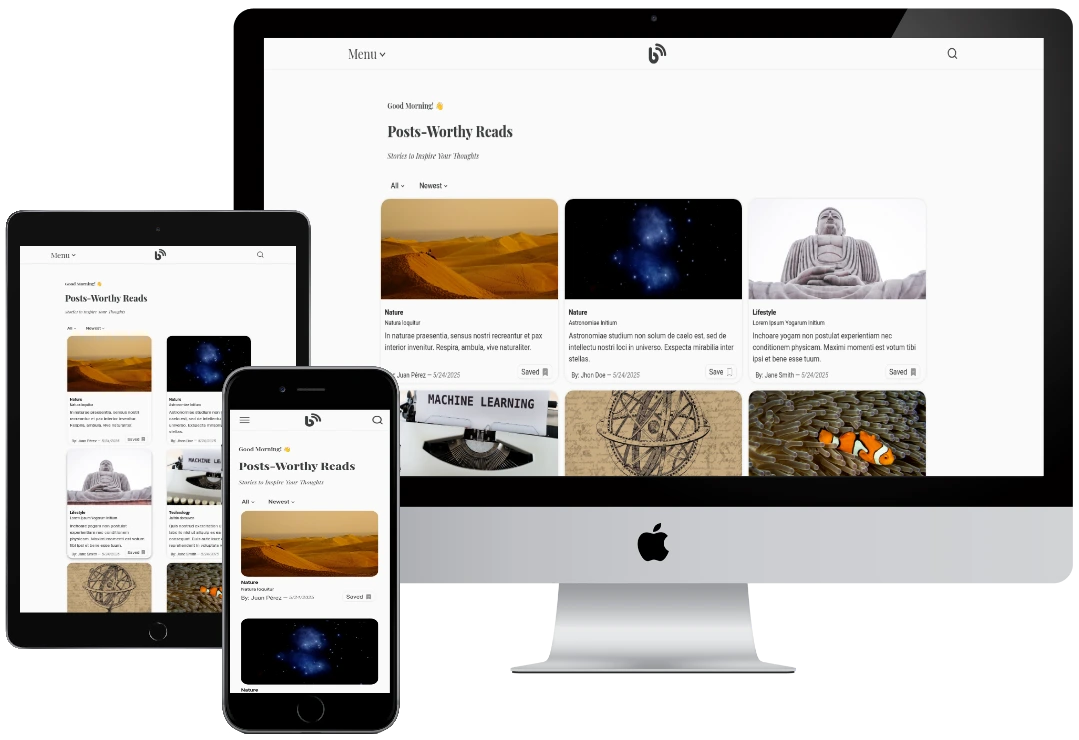
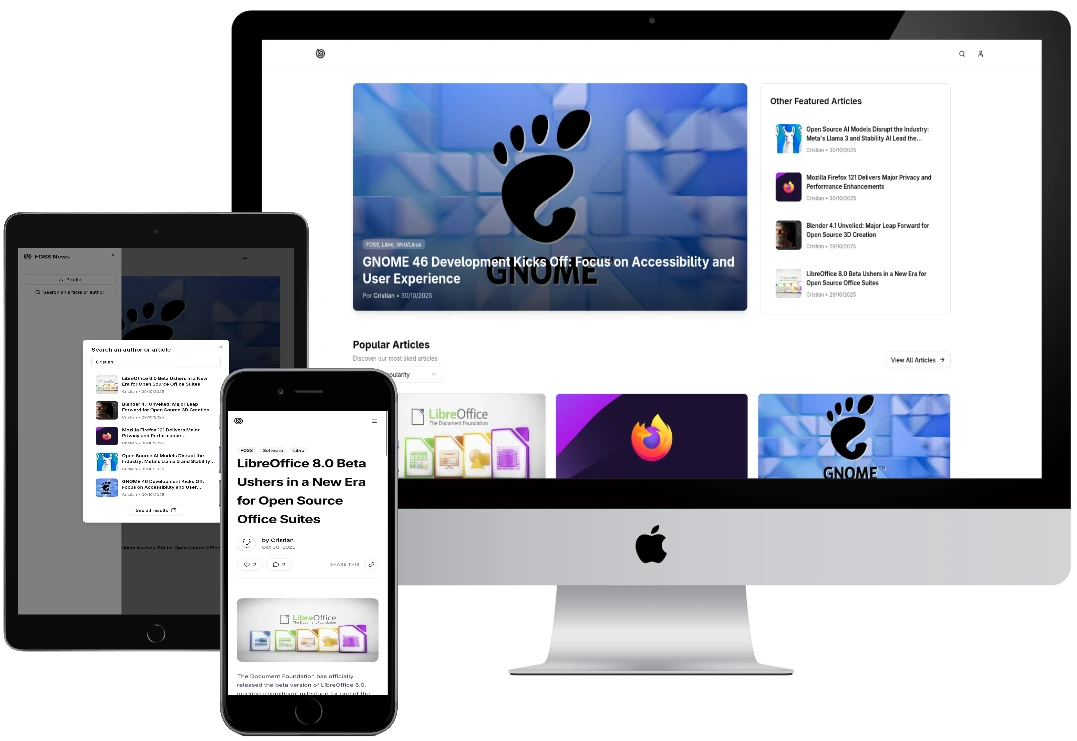
Se cambió un proyecto

diff --git a/index.html b/index.html
@@ -454,11 +454,11 @@
               <img
                 class="projects__image"
                 src="./assets/images/blog-mockup-3devices.webp"
-                alt="Captura de pantalla del proyecto Página de artículos tipo GetPocket en dispositivos varios"
+                alt="Captura de pantalla del proyecto Página de artículos headless en dispositivos varios"
               />
               <div class="projects__description">
                 <h5 id="project1-title" class="projects__title">
-                  Página de artículos tipo GetPocket
+                  Página de artículos headless
                 </h5>
                 <div class="projects__buttons">
                   <button
@@ -487,7 +487,7 @@
                     </svg>
                   </button>
                   <a
-                    href="https://github.com/Acosta-gh/blog_MERN"
+                    href="https://github.com/Acosta-gh/Headless-Articles-Platform-----Node.js-Express-Sequelize-React-Tailwind-JWT-Authentication"
                     class="button button--tertiary"
                     role="link"
                     aria-label="Código fuente en GitHub del proyecto Página de artículos tipo GetPocket"
@@ -515,20 +515,18 @@
                   </a>
                 </div>
                 <p class="projects__paragraph paragraph">
-                  Este proyecto comenzó como un blog sencillo, pero con el
-                  tiempo evolucionó hacia una plataforma de artículos inspirada
-                  en GetPocket. Es un proyecto personal al que le tengo mucho
-                  cariño y que planeo convertir en mi blog principal. Aunque aún
-                  está en desarrollo, ya cuenta con una base sólida y suficiente
-                  funcionalidad para formar parte de mi portafolio.
+                  Este es un sitio web de artículos con arquitectura headless.
+                  Permite crear y administrar artículos en Markdown, subir
+                  imágenes, gestionar usuarios y mucho más. Es ideal como base
+                  para un blog moderno o una plataforma de contenido editorial.
                 </p>
                 <div
                   class="projects__tags"
                   aria-label="Tecnologías utilizadas en este proyecto"
                 >
                   <span class="projects__tag tag2">REACT</span>
-                  <span class="projects__tag tag2">SCSS</span>
-                  <span class="projects__tag tag2">MARIADB</span>
+                  <span class="projects__tag tag2">TAILWIND</span>
+                  <span class="projects__tag tag2">POSTGRES</span>
                   <span class="projects__tag tag2">NODEJS</span>
                   <span class="projects__tag tag2">EXPRESS</span>
                   <span class="projects__tag tag2">SEQUELIZE</span>
